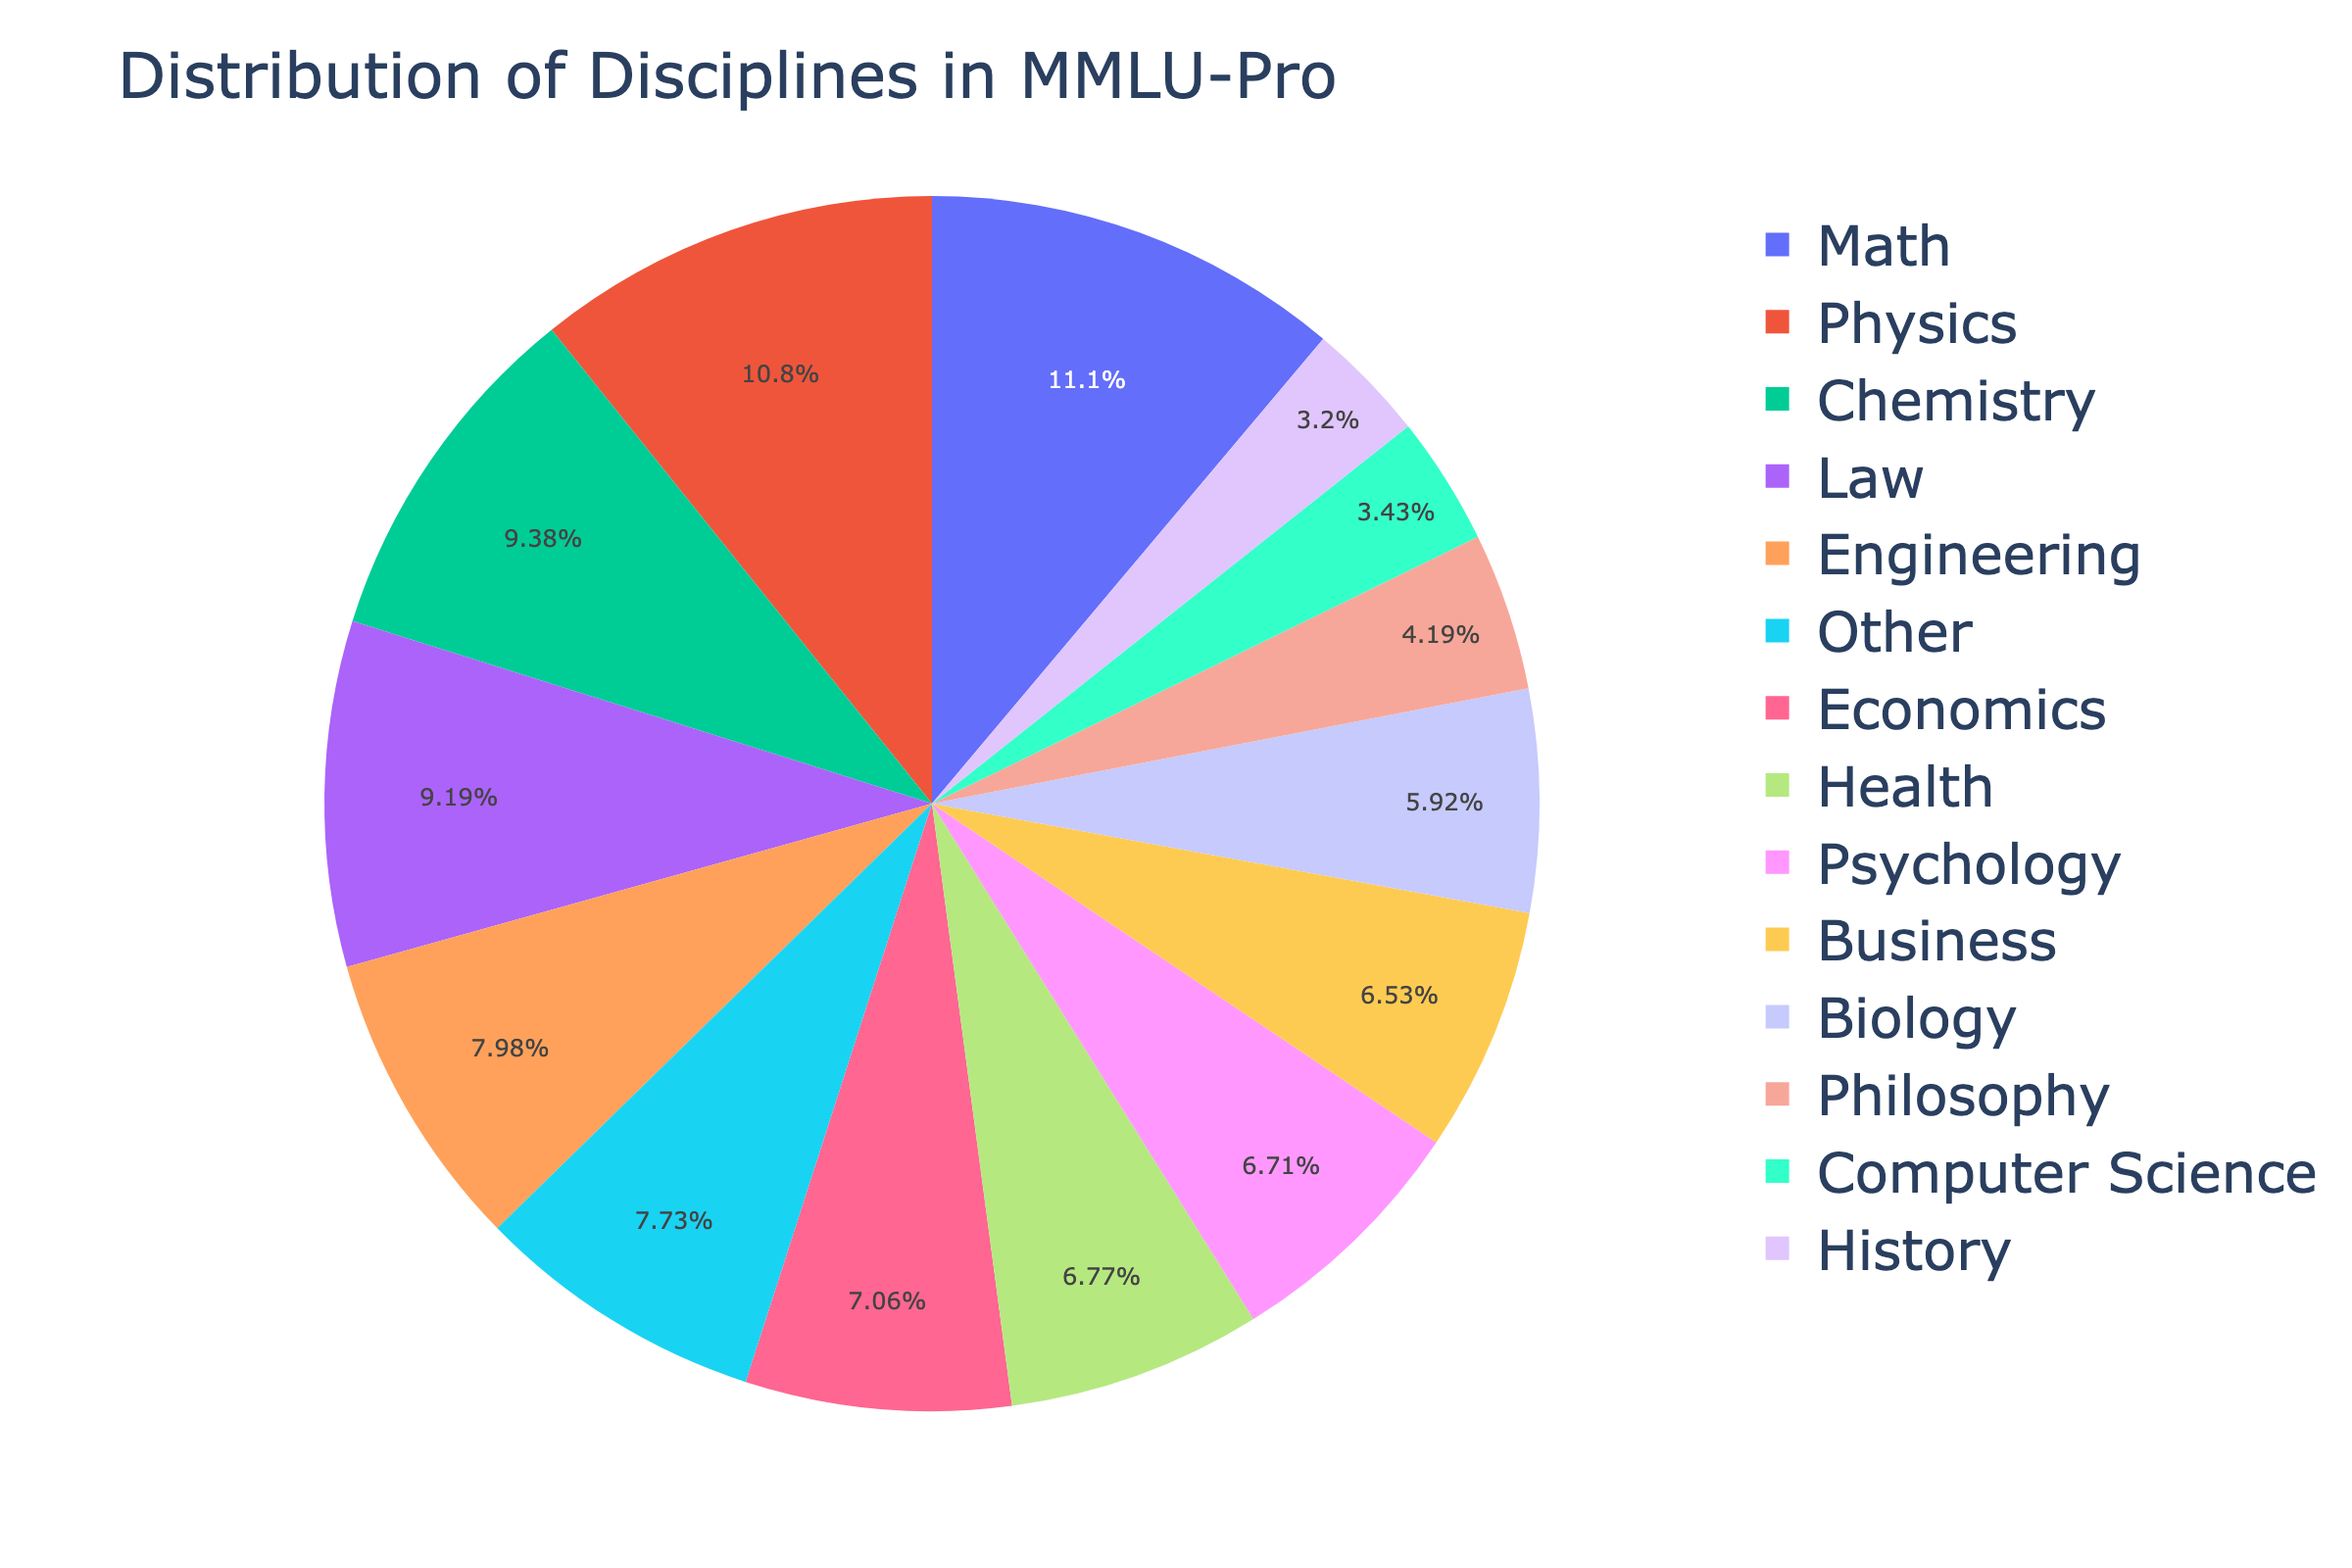
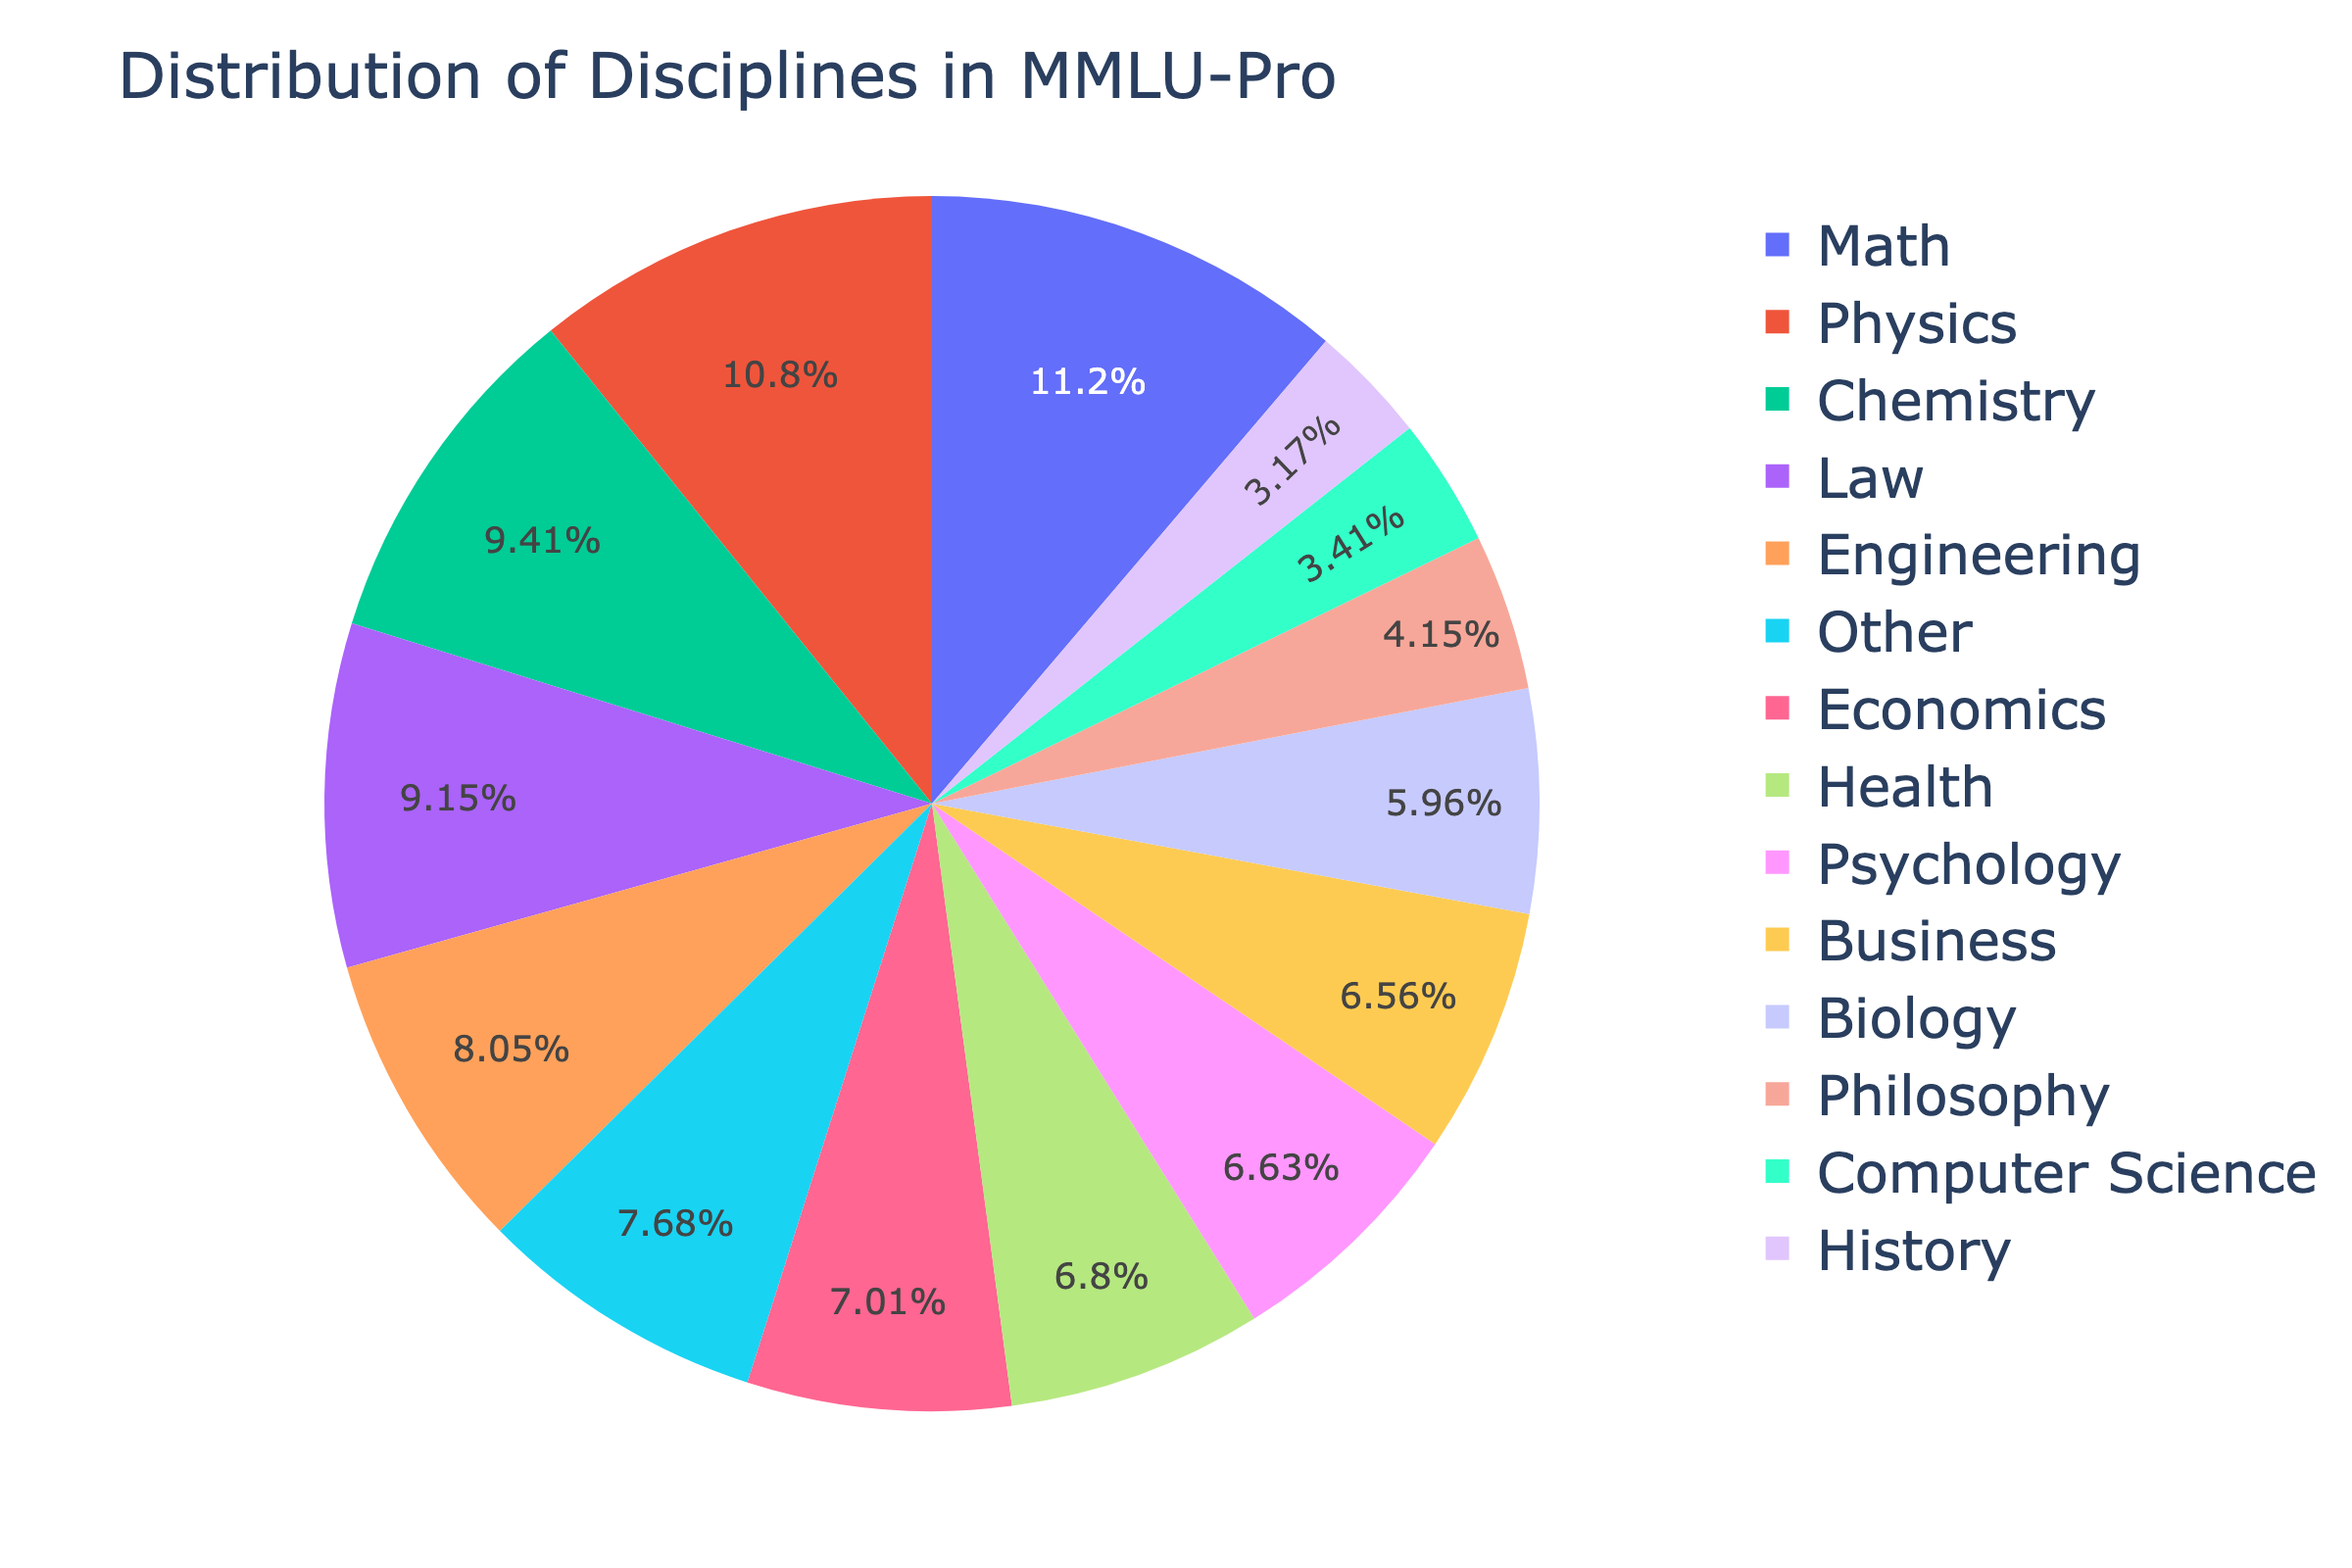
update

diff --git a/data_sta_0520/sta_mmlu_pro_data.py b/data_sta_0520/sta_mmlu_pro_data.py
@@ -1,0 +1,48 @@
+from datasets import load_dataset
+from datasets import Dataset
+import json
+import os
+
+
+def pull_data():
+    dataset = load_dataset("TIGER-Lab/MMLU-Pro")
+    test_data, val_data = [], []
+    for each in dataset["test"]:
+        test_data.append(each)
+    for each in dataset["validation"]:
+        val_data.append(each)
+    sta_subjects = {}
+    for each in dataset["test"]:
+        if each["category"] not in sta_subjects:
+            sta_subjects[each["category"]] = {"ori_mmlu": 0, "newly_added": 0}
+        src = each["src"]
+        if "ori_mmlu" in src:
+            sta_subjects[each["category"]]["ori_mmlu"] += 1
+        else:
+            sta_subjects[each["category"]]["newly_added"] += 1
+    print(sta_subjects)
+    # os.makedirs("local_0521/", exist_ok=True)
+    # with open("local_0521/mmlu_pro_test_data.json", "w") as fo:
+    #     fo.write(json.dumps(test_data))
+    # with open("local_0521/mmlu_pro_val_data.json", "w") as fo:
+    #     fo.write(json.dumps(val_data))
+    return test_data, val_data
+
+
+def update_data(data):
+    return data
+
+
+def push_data(data):
+    test_data, val_data = data
+    test_dataset = Dataset.from_list(test_data)
+    val_dataset = Dataset.from_list(val_data)
+    test_dataset.push_to_hub("TIGER-Lab/MMLU-Pro", split="test")
+    val_dataset.push_to_hub("TIGER-Lab/MMLU-Pro", split="validation")
+
+
+if __name__ == "__main__":
+    hf_data = pull_data()
+
+
+

diff --git a/data_formal/test_plotly.py b/data_formal/test_plotly.py
@@ -5,7 +5,7 @@ data = {
     'Subject': ['Business', 'Law', 'Psychology', 'Biology', 'Chemistry',
                 'History', 'Other', 'Health', 'Economics', 'Math',
                 'Physics', 'Computer Science', 'Philosophy', 'Engineering'],
-    'Count': [796, 1120, 818, 722, 1143, 390, 942, 825, 861, 1357, 1312, 418, 511, 972]
+    'Count': [789, 1101, 798, 717, 1132, 381, 924, 818, 844, 1351, 1299, 410, 499, 969]
 }
 
 # 创建饼状图
@@ -19,14 +19,14 @@ fig.update_layout(
     legend_title_font_size=20,  # 设置图例标题字体大小
     legend_font_size=28,  # 设置图例字体大小
 )
-
+fig.update_traces(textfont_size=18)
 # 保存图像
 fig.write_image("subject_dis.png", scale=2)
 
 # 定义来源数据
 src_data = {
     'Source': ['Original MMLU Questions', 'TheoremQA', 'STEM Website', 'Scibench'],
-    'Count': [6933, 599, 4111, 544]
+    'Count': [6810, 598, 4083, 541]
 }
 
 # 创建饼状图
@@ -40,7 +40,7 @@ fig.update_layout(
     legend_title_font_size=20,  # 设置图例标题的字体大小
     legend_font_size=28,  # 设置图例的字体大小
 )
-
+fig.update_traces(textfont_size=18)
 # 保存图像
 fig.write_image("data_source_distribution.png", scale=2)
 

diff --git a/data_formal/statistic_mmlu_pro.py b/data_formal/statistic_mmlu_pro.py
@@ -2,7 +2,8 @@ import json
 
 
 def statistic():
-    with open("mmlu_pro_data_v1/mmlu_pro_test.json", "r") as fi:
+    # with open("mmlu_pro_data_v1/mmlu_pro_test.json", "r") as fi:
+    with open("/Users/server/MMLU/git/robust_mmlu/data_hf/local_0521/mmlu_pro_test_data.json", "r") as fi:
         data = json.load(fi)
     cat_data, src_data = {}, {}
     cat_src_data = {}
